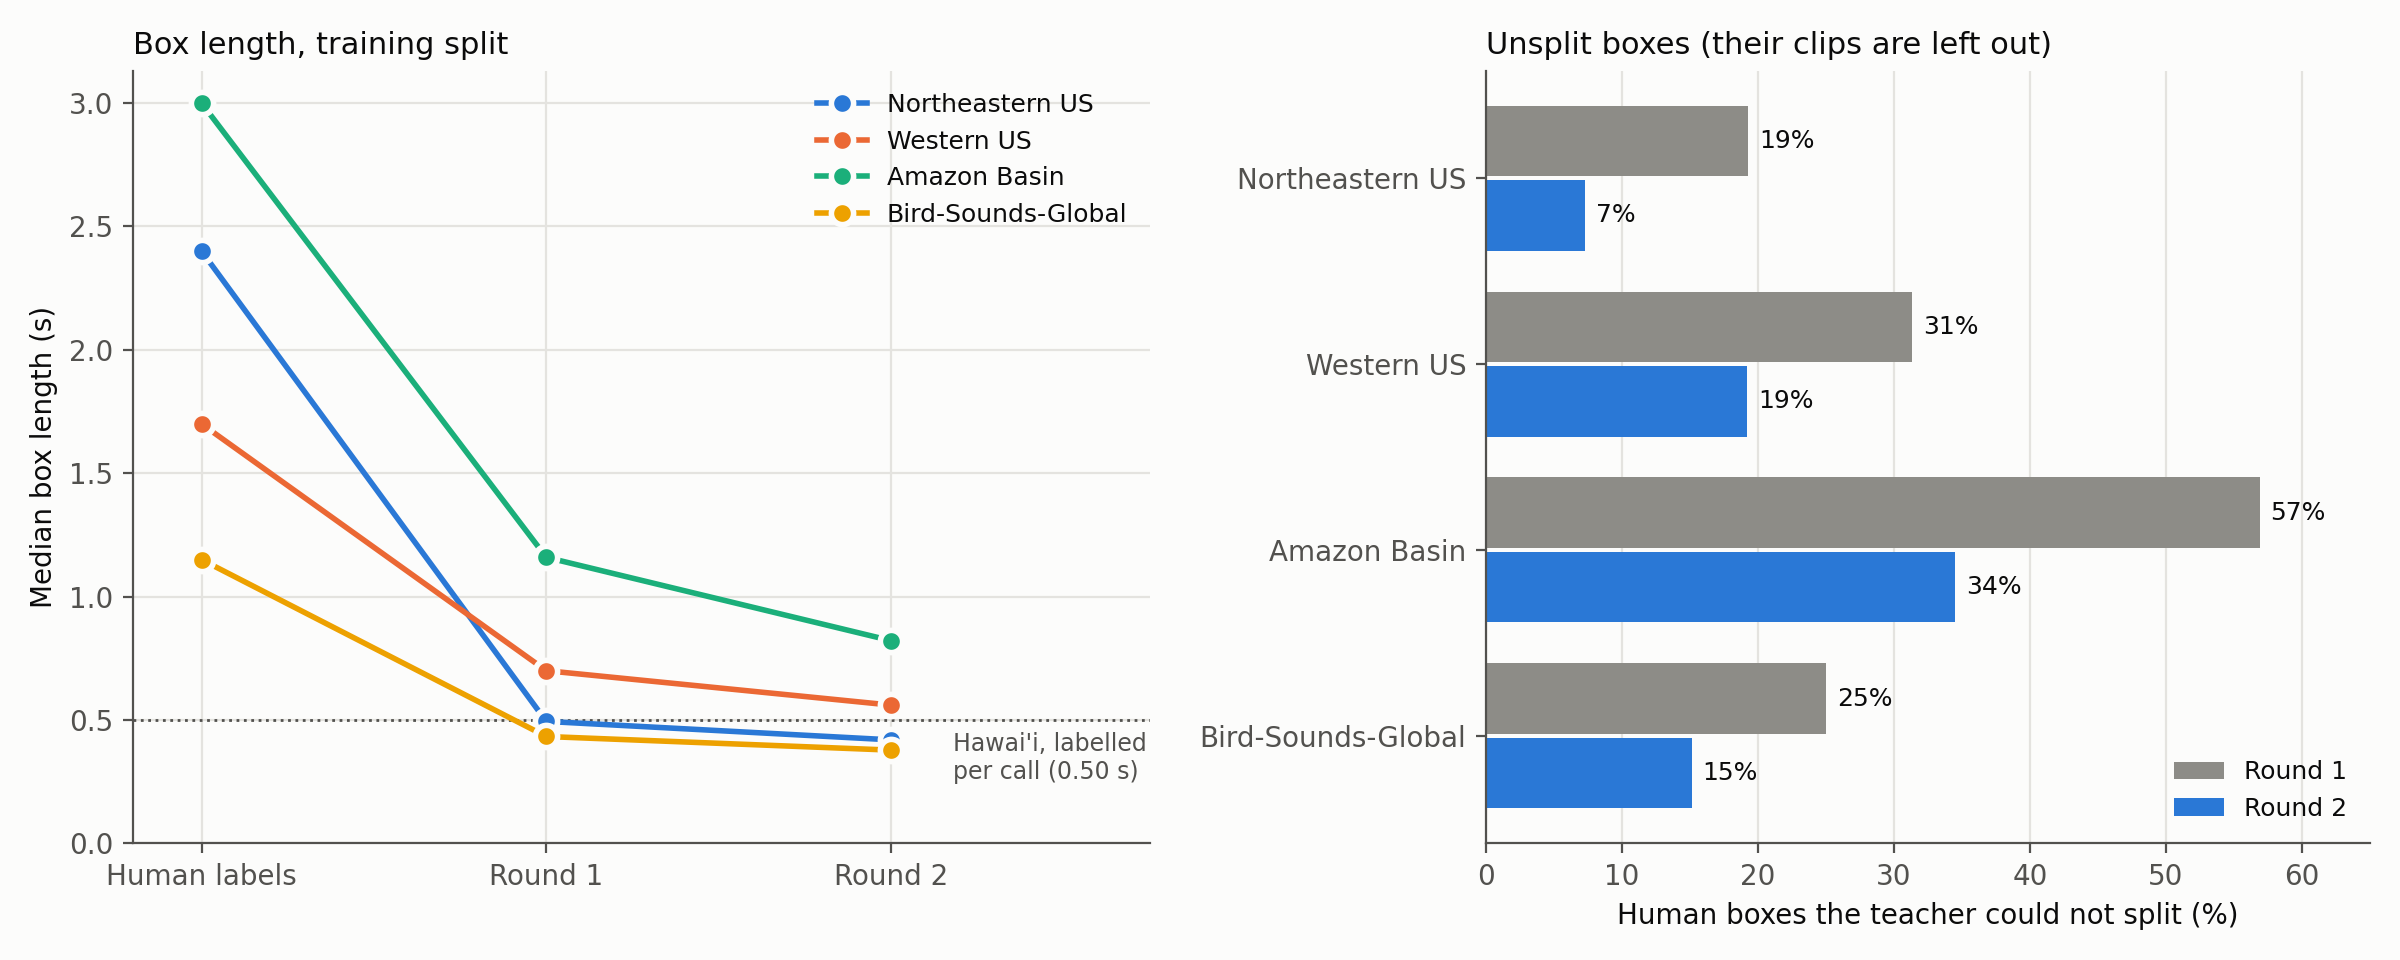
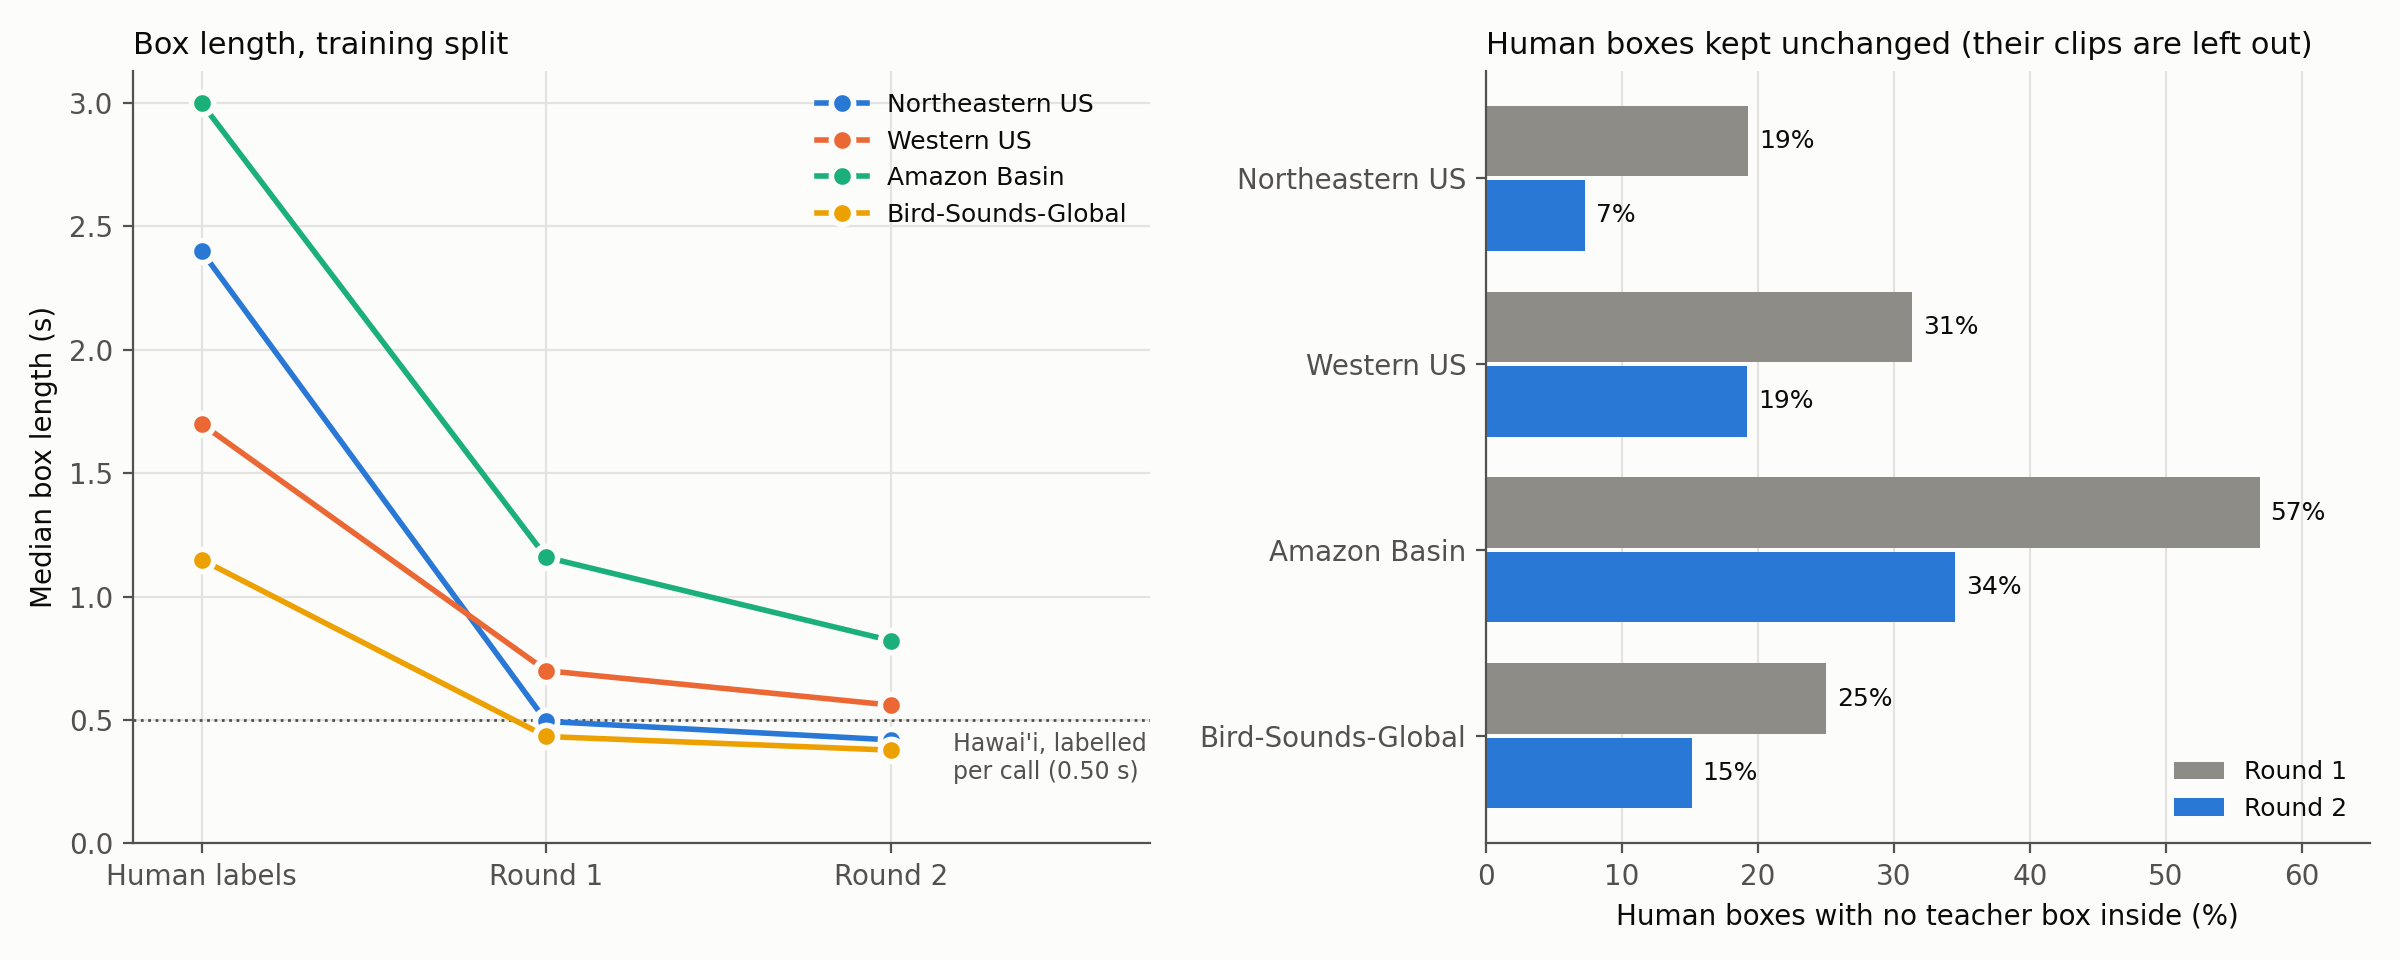
docs: how the Just-Bird labels are split
New section on the label refinement: the rule step by step, real clips
for each outcome, the clips each round leaves out, and why human boxes
stay unsplit. Unsplit means no teacher box lies at least half inside,
not that the box was judged correct; call-sized boxes stay unsplit more
often (31% vs 16%) but are only 7% of the unsplit boxes.

Changed region(s): [[0.625, 0.0312, 0.9688, 0.0625], [0.6562, 0.9375, 0.9375, 0.9688]]

diff --git a/docs/models-and-metrics/just-bird.md b/docs/models-and-metrics/just-bird.md
@@ -69,18 +69,14 @@ flowchart LR
 
 ### Splitting Bouts into Calls
 
-Trained on the human labels of all datasets, the model learns the bout style and draws boxes of several seconds on a new site. It then scores lower there than a model trained on Hawai'i alone (see the first two bars [below](#each-step-on-the-unseen-site)). The bout labels are therefore split into calls by a teacher model before the final training:
+Trained on the human labels of all datasets, the model learns the bout style and draws boxes of several seconds on a new site. It then scores lower there than a model trained on Hawai'i alone (see the first two bars [below](#each-step-on-the-unseen-site)). The bout labels are therefore split into calls before the final training. A teacher model looks for calls inside each human box, and the call boxes it finds replace the box:
 
-- The teacher runs on every 3 s clip. Its boxes with a confidence of at least 0.05 that lie at least half inside a human box replace that box. They are clipped to it, so they never leave its time and frequency range.
-- A human box with no teacher box inside stays unsplit, and clips that still contain one are left out.
 - **Round 1** uses a teacher trained on Hawai'i only, which never saw a bout box.
 - **Round 2** uses a teacher trained on all sets with the round-1 labels, and splits the original human boxes again.
 
 <img src="../../img/metrics/just_bird_label_example.png" width="1000" alt="A Northeastern US clip with one human bout box, two call boxes from round 1 and five call boxes from round 2">
 
-<img src="../../img/metrics/just_bird_label_rounds.png" width="1000" alt="Median box length per dataset for human, round-1 and round-2 labels, and the share of human boxes left unsplit in each round">
-
-Round 2 splits more of the bouts, so fewer clips are left out: the share of unsplit human boxes drops from 19–57% to 7–34% per dataset, and Amazon Basin keeps 13,163 training clips instead of 7,534.
+[How the Labels Are Split](#how-the-labels-are-split) explains the rule, what each round changes, and which boxes cannot be split.
 
 ### Each Step on the Unseen Site
 
@@ -101,6 +97,72 @@ Training longer does not help a new site. In a 30-epoch run, F1 on the unseen si
 <img src="../../img/metrics/just_bird_rounds_train.png" width="1000" alt="Hawai'i validation mAP per epoch for teacher 1, teacher 2 and the final recipe">
 
 Teacher 1 was trained for up to 100 epochs with early stopping and kept epoch 24. Teacher 2 and the final recipe run a fixed schedule that decays fully and keep the last epoch. On Hawai'i val the three end within about 0.03 mAP50 of each other (0.63–0.66). Only the unseen site separates them.
+
+---
+
+## How the Labels Are Split
+
+The refinement changes only the four bout-labelled datasets: Northeastern US, Western US, Amazon Basin and Bird-Sounds-Global. Hawai'i and Southern Sierra Nevada keep their human call labels. It works on the training images, 3 s clips that overlap by half. An annotation longer than a clip is cut into one box per clip, and each of these boxes is refined on its own.
+
+### The Rule
+
+For every clip:
+
+1. The teacher proposes boxes with a confidence of at least 0.05. The cutoff is low on purpose: inside a box a human drew, even a weak detection is likely a call.
+2. A teacher box counts as inside a human box when at least half of the teacher box lies within it. The share is measured on the teacher box, so a bout box can take many small call boxes. A teacher box that overlaps several human boxes counts only for those that hold at least half of it.
+3. The teacher boxes inside a human box replace it and are clipped to it, so a refined box never leaves the time and frequency range the annotator marked.
+4. Near-duplicates (IoU ≥ 0.6, for example one call inside two overlapping human boxes) are merged, keeping the more confident box.
+5. A human box with no teacher box inside stays unchanged: it is **unsplit**. Every clip that still holds an unsplit box is left out of training, so no bout box reaches the model.
+
+<img src="../../img/metrics/just_bird_refine_cases.png" width="1000" alt="Six training clips: a bout box split into five call boxes, a good call box replaced by an almost identical box, a loose call box replaced by a tighter one, and three boxes that stay unsplit">
+
+The top row shows boxes that are split. A bout box becomes five call boxes. A call box that already fits its call is replaced by an almost identical box. A loose call box becomes a tighter one. The bottom row shows the reasons a box stays unsplit, covered in [Why Boxes Stay Unsplit](#why-boxes-stay-unsplit).
+
+Two things the rule cannot do:
+
+- **It never adds a label.** A call outside every human box stays unlabelled, as in the original data.
+- **A call the teacher misses inside a bout box loses its label**, because the call boxes replace the whole bout box. In the bout clip above, the short, low sound at about 0.45 s gets no box in either round and now counts as background. A lower confidence cutoff would find more of these calls, but would also accept more noise.
+
+### What Each Round Changes
+
+<img src="../../img/metrics/just_bird_label_rounds.png" width="1000" alt="Median box length per dataset for human, round-1 and round-2 labels, and the share of human boxes kept unchanged in each round">
+
+Round 1 cuts the median box length from 1.15–3.0 s to 0.43–1.16 s, and round 2 to 0.38–0.82 s, close to the 0.50 s of the call-level Hawai'i labels. The larger effect of round 2 is that it splits more of the bouts, so far fewer clips are left out:
+
+| Dataset | Training clips | Left out, round 1 | Left out, round 2 | Used for training |
+| :--- | :---: | :---: | :---: | :---: |
+| Northeastern US | 116,780 | 25,847 (22%) | 10,617 (9%) | 106,163 |
+| Western US | 36,435 | 13,605 (37%) | 9,014 (25%) | 27,421 |
+| Amazon Basin | 31,264 | 23,730 (76%) | 18,101 (58%) | 13,163 |
+| Bird-Sounds-Global | 84,404 | 23,826 (28%) | 15,334 (18%) | 69,070 |
+
+Amazon Basin loses the most. Its recordings are dense choruses with long, overlapping annotations, and even after round 2 more than half of its clips still hold an unsplit box.
+
+### Why Boxes Stay Unsplit
+
+An unsplit box is not a box the teacher judged to be correct. A call box that already fits its call is not unsplit: if the teacher finds the call, its box replaces the human box and is about the same (the second clip above). A box stays unsplit only when no teacher box lies at least half inside it, which happens in two ways:
+
+- **No teacher box.** The teacher finds nothing in the box. Usually this is a stretch of a long annotation where the bird is silent or barely audible in this clip, or a faint call.
+- **The teacher box sticks out.** Teacher boxes touch the human box, but less than half of each lies inside it. This happens where boxes of several birds overlap, as in the Amazon Basin choruses. It also happens where the teacher draws a larger box around a call than the annotator did.
+
+The second case means that a good call box can still stay unsplit. To measure how often, every unsplit box was traced back to the whole annotation it was cut from, and the teacher was run again on its clip:
+
+<img src="../../img/metrics/just_bird_unsplit.png" width="1000" alt="Left: share of human boxes left unsplit by annotation length per dataset. Right: the unsplit boxes split into call-sized and longer annotations, and by whether the teacher found nothing or its box stuck out">
+
+| Dataset | Human boxes | From call-sized annotations (≤ 0.5 s) | Unsplit, all boxes | Unsplit, call-sized | Call-sized share of the unsplit boxes |
+| :--- | :---: | :---: | :---: | :---: | :---: |
+| Northeastern US | 151,983 | 5,423 (3.6%) | 7% | 22% | 11% |
+| Western US | 54,951 | 316 (0.6%) | 19% | 70% | 2% |
+| Amazon Basin | 77,792 | 733 (0.9%) | 34% | 74% | 2% |
+| Bird-Sounds-Global | 125,370 | 8,467 (6.8%) | 15% | 31% | 14% |
+| All four | 410,096 | 14,939 (3.6%) | 16% | 31% | 7% |
+
+Round 2, training split, boxes counted per 3 s clip. Call-sized means the whole annotation is at most 0.5 s long, the median of the Hawai'i call labels.
+
+- **Call-sized boxes stay unsplit more often** than longer ones: 31% against 16% over all four datasets. In 62% of these cases the teacher did see something, but its box sticks out. The rule is stricter with tight boxes than it needs to be: a teacher box that covers a tight human box and is more than twice its size fails the half-inside test.
+- **But call-sized boxes are rare.** These datasets were annotated per bout, and only 3.6% of their boxes come from call-sized annotations. They make up 7% of the unsplit boxes, so leaving their clips out costs little data.
+- **Most unsplit boxes are pieces of long annotations.** In 48% of all unsplit boxes the teacher found nothing, mostly silent or faint stretches. In the rest its boxes stick out, above all in Amazon Basin (65% of its unsplit boxes).
+- **Leaving these clips out is the safer choice.** Keeping them would put bout boxes back into training, and bout boxes are what lowered F1 on the unseen site from 0.280 to 0.122 (see [Each Step on the Unseen Site](#each-step-on-the-unseen-site)). A rule that also accepts a teacher box covering most of a small human box would keep the call-sized ones. It has not been tested.
 
 ---
 
